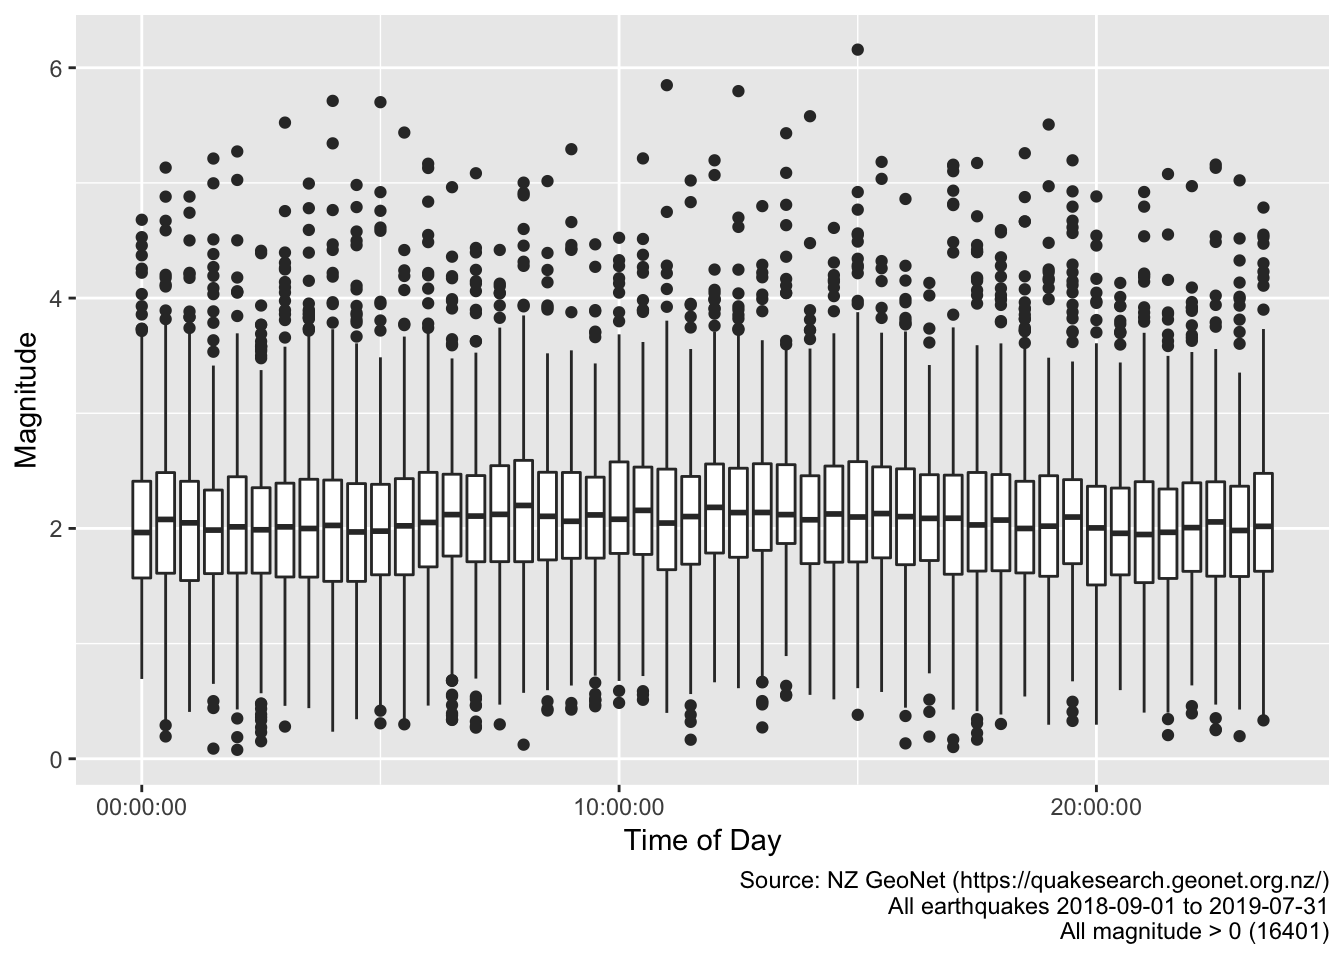
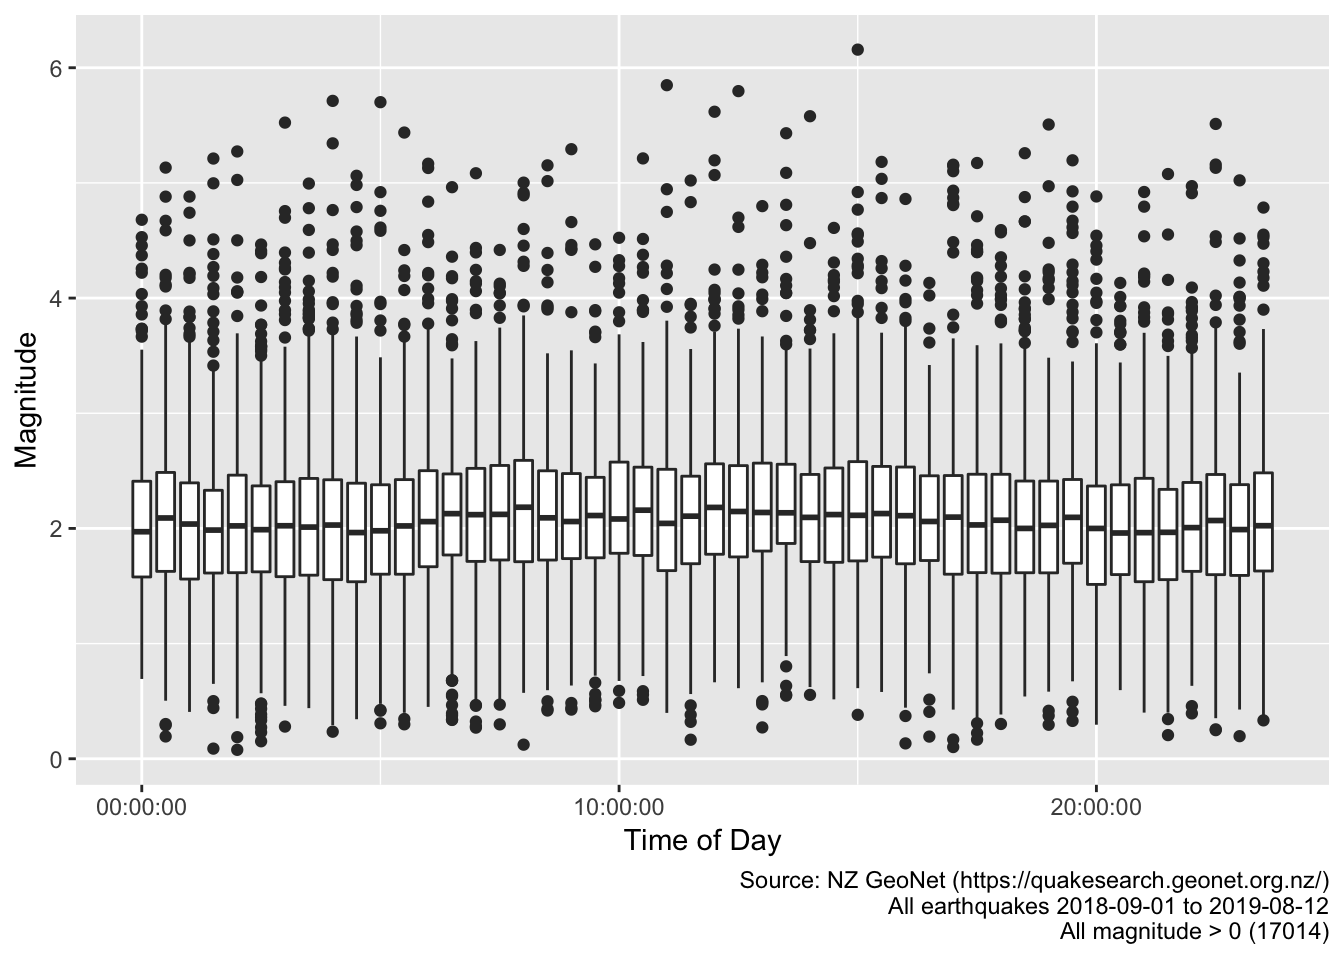
expanded data dates slightly; re-ran

diff --git a/docs/earthquakeTiming.html b/docs/earthquakeTiming.html
@@ -307,7 +307,7 @@ div.tocify {
 <h1 class="title toc-ignore">On the timing of earthquakes (and their magnitude)</h1>
 <h3 class="subtitle">Using Aotearoa New Zealand GeoNet data</h3>
 <h4 class="author">Ben Anderson (Contact: <a href="mailto:b.anderson@soton.ac.uk" class="email">b.anderson@soton.ac.uk</a>, <code>@dataknut</code>)</h4>
-<h4 class="date">Last run at: 2019-08-14 12:15:12</h4>
+<h4 class="date">Last run at: 2019-08-14 12:22:12</h4>
 
 </div>
 
@@ -320,7 +320,7 @@ div.tocify {
 </div>
 <div id="data" class="section level1">
 <h1><span class="header-section-number">2</span> Data</h1>
-<p>We downloaded all earthquake records from 2018-09-01 to 2019-08-01. This is a grand total of 19879 records.</p>
+<p>We downloaded all earthquake records from 2018-09-01 to 2019-08-13. This is a grand total of 20498 records.</p>
 <p>Not all the events are actually earthquakes. As Table <a href="#tab:eventsTab">2.1</a> shows, there are explosions, quarry blasts etc.</p>
 <pre class="r"><code>t &lt;- cube(dt, j = list(&quot;min magnitude&quot; = min(magnitude),
                        &quot;mean magnitude&quot; = mean(magnitude),
@@ -369,24 +369,7 @@ earthquake
 6.16
 </td>
 <td style="text-align:right;">
-16405
-</td>
-</tr>
-<tr>
-<td style="text-align:left;">
-quarry blast
-</td>
-<td style="text-align:right;">
-0.66
-</td>
-<td style="text-align:right;">
-2.07
-</td>
-<td style="text-align:right;">
-2.84
-</td>
-<td style="text-align:right;">
-56
+17018
 </td>
 </tr>
 <tr>
@@ -397,13 +380,30 @@ not locatable
 0.38
 </td>
 <td style="text-align:right;">
-1.70
+1.69
 </td>
 <td style="text-align:right;">
 3.26
 </td>
 <td style="text-align:right;">
-42
+43
+</td>
+</tr>
+<tr>
+<td style="text-align:left;">
+quarry blast
+</td>
+<td style="text-align:right;">
+0.66
+</td>
+<td style="text-align:right;">
+2.09
+</td>
+<td style="text-align:right;">
+2.84
+</td>
+<td style="text-align:right;">
+58
 </td>
 </tr>
 <tr>
@@ -414,13 +414,13 @@ outside of network interest
 0.78
 </td>
 <td style="text-align:right;">
-4.20
+4.19
 </td>
 <td style="text-align:right;">
 6.70
 </td>
 <td style="text-align:right;">
-197
+199
 </td>
 </tr>
 <tr>
@@ -538,16 +538,16 @@ Figure 4.1: Number of earthquakes by time of day (magnitude &gt; 3)
   theme(legend.position=&quot;bottom&quot;)
 p</code></pre>
 <div class="figure"><span id="fig:magBox"></span>
-<img src="earthquakeTiming_files/figure-html/magBox-1.png" alt="Mean magnitude of earthquakes by time of day" width="672" />
+<img src="earthquakeTiming_files/figure-html/magBox-1.png" alt="Box plot of magnitude of earthquakes by time of day" width="672" />
 <p class="caption">
-Figure 5.1: Mean magnitude of earthquakes by time of day
+Figure 5.1: Box plot of magnitude of earthquakes by time of day
 </p>
 </div>
 <p>No they are not.</p>
 </div>
 <div id="data-annex" class="section level1">
 <h1><span class="header-section-number">6</span> Data Annex</h1>
-<p>Original data as loaded from <a href="https://quakesearch.geonet.org.nz/csv?bbox=163.95996,-49.18170,182.63672,-32.28713&amp;startdate=2018-09-01&amp;enddate=2019-08-01" class="uri">https://quakesearch.geonet.org.nz/csv?bbox=163.95996,-49.18170,182.63672,-32.28713&amp;startdate=2018-09-01&amp;enddate=2019-08-01</a>:</p>
+<p>Original data as loaded from <a href="https://quakesearch.geonet.org.nz/csv?bbox=163.95996,-49.18170,182.63672,-32.28713&amp;startdate=2018-09-01&amp;enddate=2019-08-13" class="uri">https://quakesearch.geonet.org.nz/csv?bbox=163.95996,-49.18170,182.63672,-32.28713&amp;startdate=2018-09-01&amp;enddate=2019-08-13</a>:</p>
 <pre class="r"><code>skimr::skim(df) # original data</code></pre>
 <pre><code>## No skim method exists for class function.</code></pre>
 </div>
